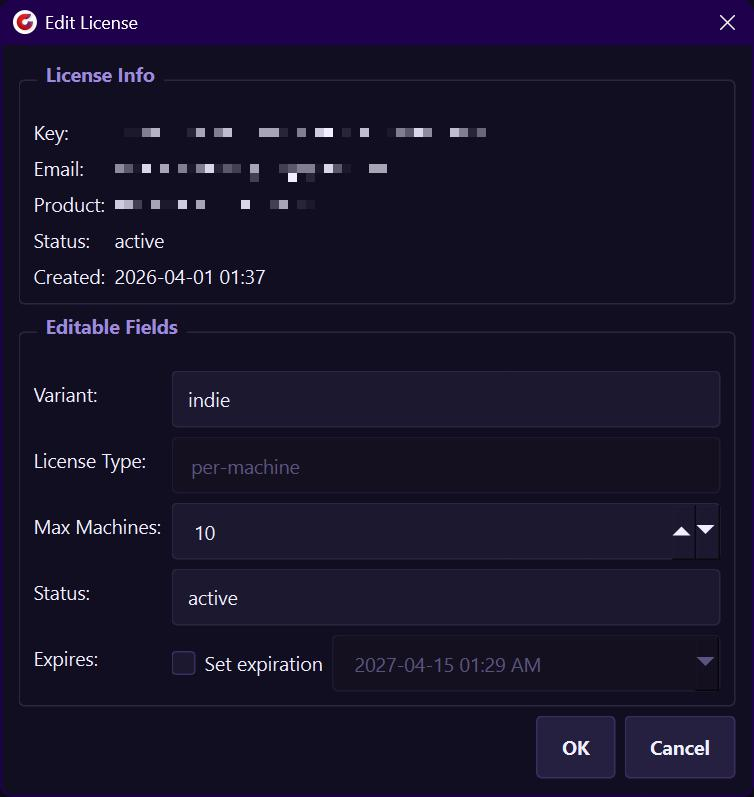
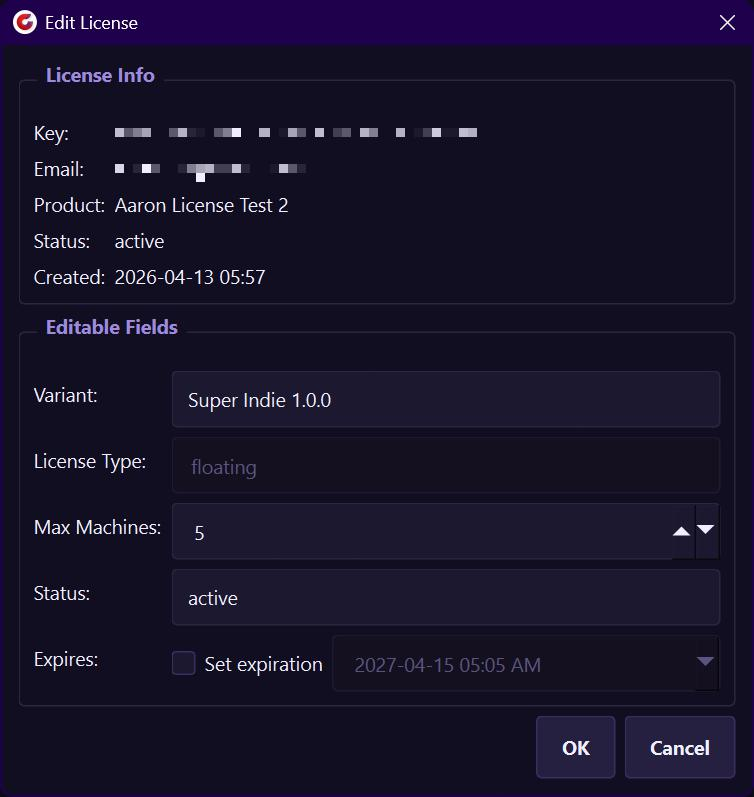
README.md update

diff --git a/README.md b/README.md
@@ -142,7 +142,7 @@ The Licenses Tab shows all licenses for the selected product(s).
 | Button                | Description                                                                             |
 |-----------------------|-----------------------------------------------------------------------------------------|
 | **Refresh**           | Reload all Licenses & Trials/Discounts from the server (also `F5`)                      |
-| **+ Create License**  | Open the create dialog (also `Ctrl+N`)                                                  |
+| **+ Create License**  | Open the Create License Dialog (also `Ctrl+N`)                                          |
 | **Edit Selected**     | Edit the selected license — variant, license type, max machines, status, and expiration |
 | **View Details**      | Open the full detail view for the selected license                                      |
 | **Revoke License**    | Permanently revoke the selected license(s)                                              |
@@ -173,7 +173,7 @@ Select a row and click **Edit Selected** (or right-click → **Edit License**) t
 |-------------|---------------------------------------------------|
 | **Key**     | Full license key (selectable).                    |
 | **Email**   | Customer email address.                           |
-| **Product** | Product ID from your config.                      |
+| **Product** | Your Product name.                                |
 | **Status**  | Current status at the time the dialog was opened. |
 | **Created** | Purchase/Creation date.                           |
 
@@ -229,8 +229,8 @@ The Trials/Discounts tab shows all trial and discount codes for the selected pro
 | Button                | Description                                                                       |
 |-----------------------|-----------------------------------------------------------------------------------|
 | **Refresh**           | Reload all products, licenses, and codes from the server (also `F5`).             |
-| **+ Create Trial**    | Open the create-trial dialog (also `Ctrl+N` when this tab is active).             |
-| **+ Create Discount** | Open the create-discount dialog (also `Ctrl+Shift+N` when this tab is active).    |
+| **+ Create Trial**    | Open the Create Trial Dialog (also `Ctrl+N` when this tab is active).             |
+| **+ Create Discount** | Open the Create Discount Dialog (also `Ctrl+Shift+N` when this tab is active).    |
 | **Edit Selected**     | Edit the selected code — max uses, trial duration, discount percent, expiry, etc. |
 | **View Details**      | Open the full detail view for the selected code.                                  |
 | **Enable / Disable**  | Toggle the selected code(s) on or off without deleting them.                      |
@@ -258,14 +258,14 @@ Select a row and click **Edit Selected** (or right-click → **Edit Code**) to o
 
 #### The top section shows read-only code info for reference:
 
-| Field              | Description                                              |
-|--------------------|----------------------------------------------------------|
-| **Code**           | The code string (selectable).                            |
-| **Used**           | Number of times the code has already been redeemed.     |
-| **Trial Duration** | Trial length granted by this code, or `N/A`.             |
-| **Discount %**     | Discount percentage applied at checkout, or `N/A`.       |
-| **Created**        | Creation date of the code.                               |
-| **Product**        | Product name the code applies to (or `All Products`).    |
+| Field              | Description                                           |
+|--------------------|-------------------------------------------------------|
+| **Code**           | The code string (selectable).                         |
+| **Used**           | Number of times the code has already been redeemed.   |
+| **Trial Duration** | Trial length granted by this code, or `N/A`.          |
+| **Discount %**     | Discount percentage applied at checkout, or `N/A`.    |
+| **Created**        | Creation date of the code.                            |
+| **Product**        | Product name the code applies to (or `All Products`). |
 
 #### The editable fields section allows the following changes:
 
@@ -314,11 +314,11 @@ Hover over any cell to see the full description.
 
 ## Keyboard Shortcuts
 
-| Shortcut       | Action                                                                  |
-|----------------|-------------------------------------------------------------------------|
-| `F5`           | Refresh all (products, licenses, trials/discounts)                      |
+| Shortcut       | Action                                                                                         |
+|----------------|------------------------------------------------------------------------------------------------|
+| `F5`           | Refresh all (products, licenses, trials/discounts)                                             |
 | `Ctrl+N`       | Create new license on the **Licenses** tab, or new trial on the **Discount / Trial Codes** tab |
-| `Ctrl+Shift+N` | Create new discount code on the **Discount / Trial Codes** tab          |
+| `Ctrl+Shift+N` | Create new discount code on the **Discount / Trial Codes** tab                                 |
 ---
 
 ## Activation Counts
@@ -329,8 +329,6 @@ The CG Lounge License Server's list endpoint does not return live activation cou
 - **During the drip** — the status bar shows `Dripping license statuses...` and the 60-second refresh timer is paused.
 - **Every 60 seconds** — once the drip finishes, a background timer re-fetches all counts automatically. A live countdown in the bottom-right status bar shows when the next refresh is due.
 - **On detail view** — opening the **View Details** dialog for a license fetches its activations and violations immediately and updates that row.
-
-> The **Activations** tab inside the detail dialog has a live filter: type a hostname or country to narrow the list, or enable **Only active sessions** to show only machines with an active session.
 ---
 
 ## Troubleshooting
